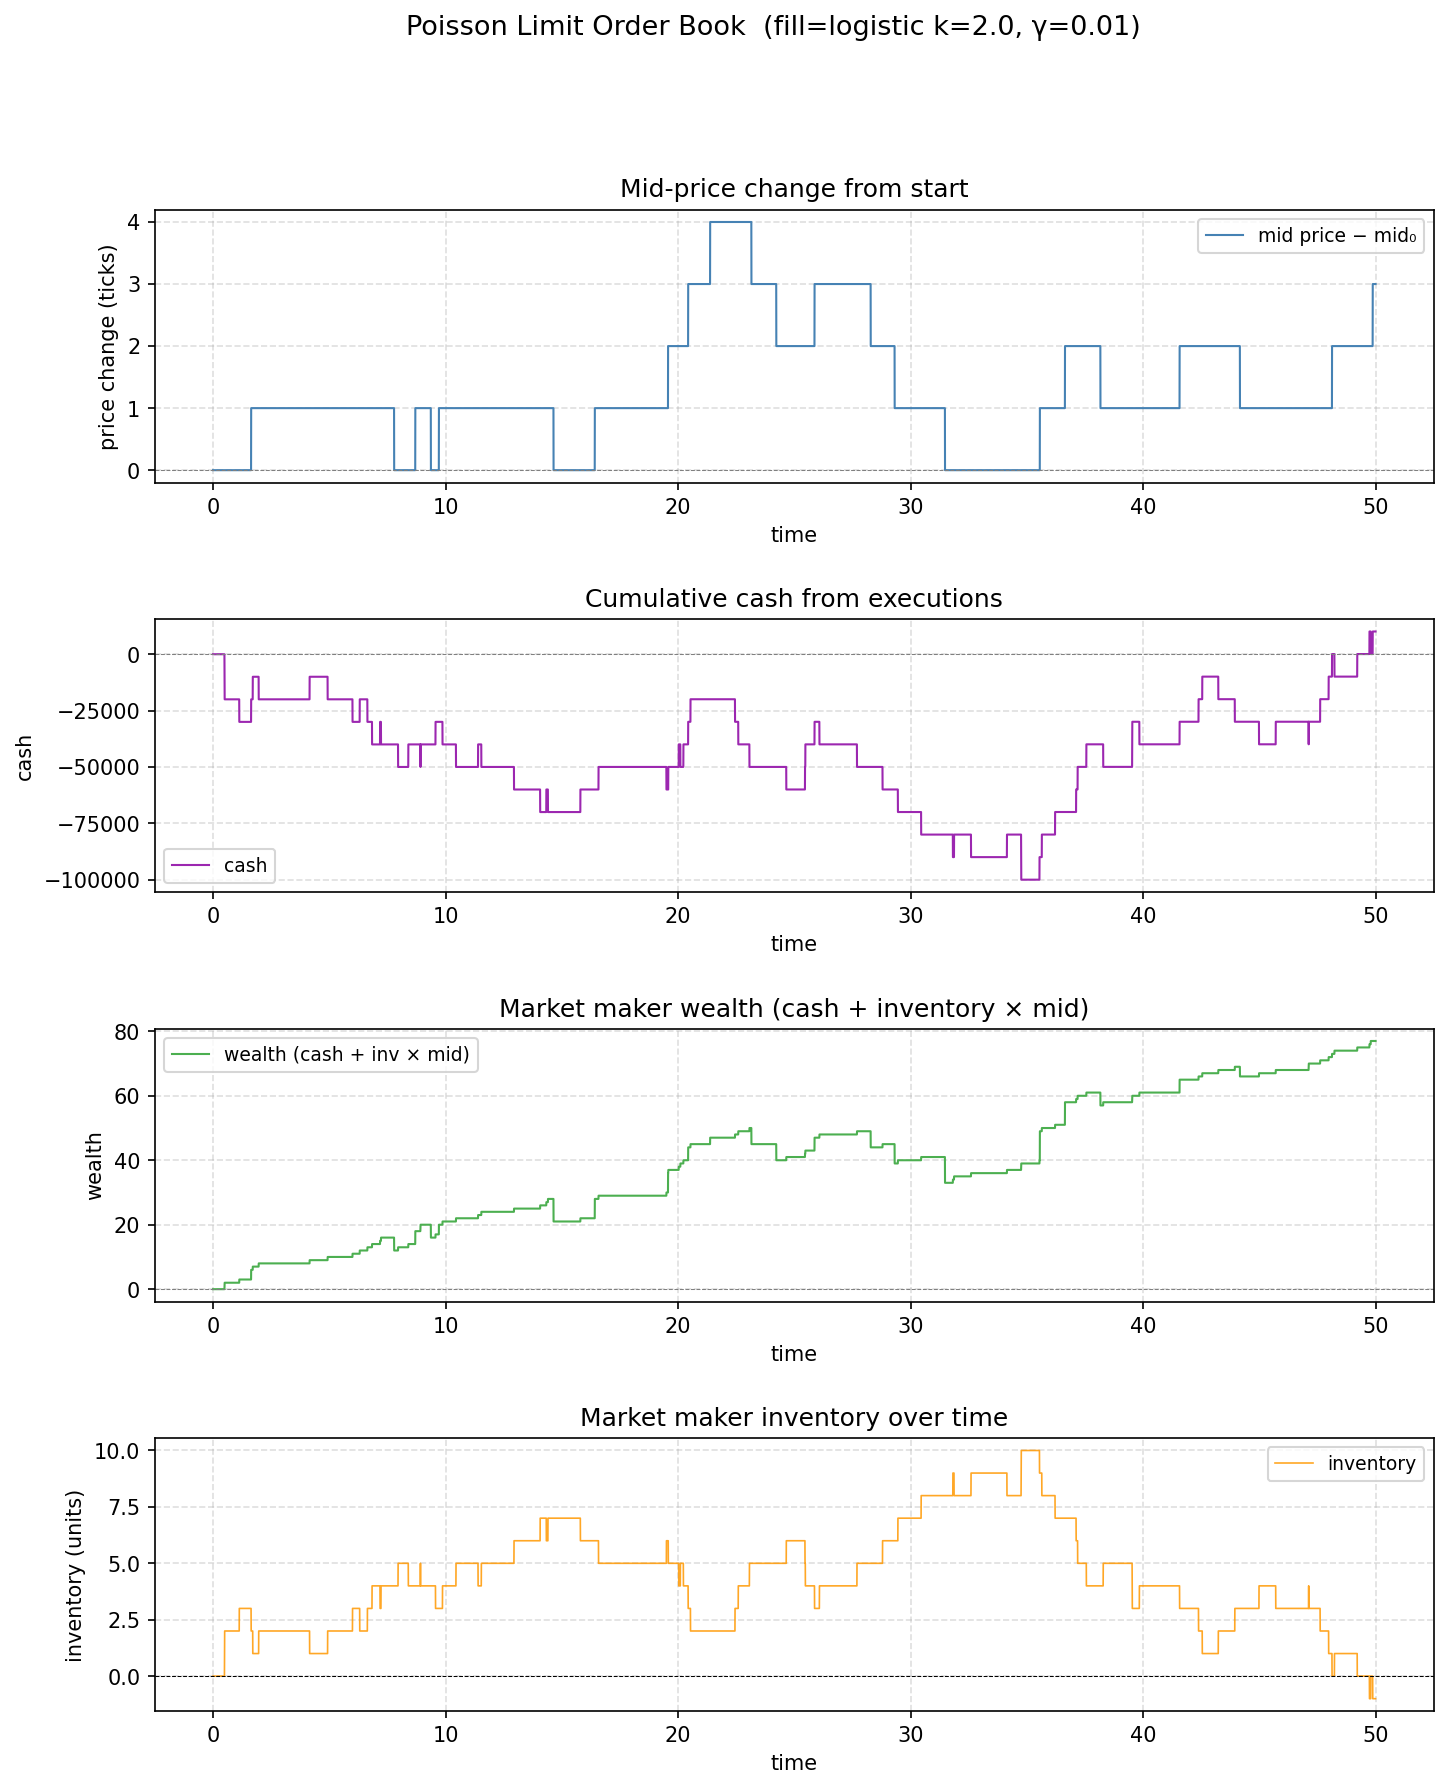
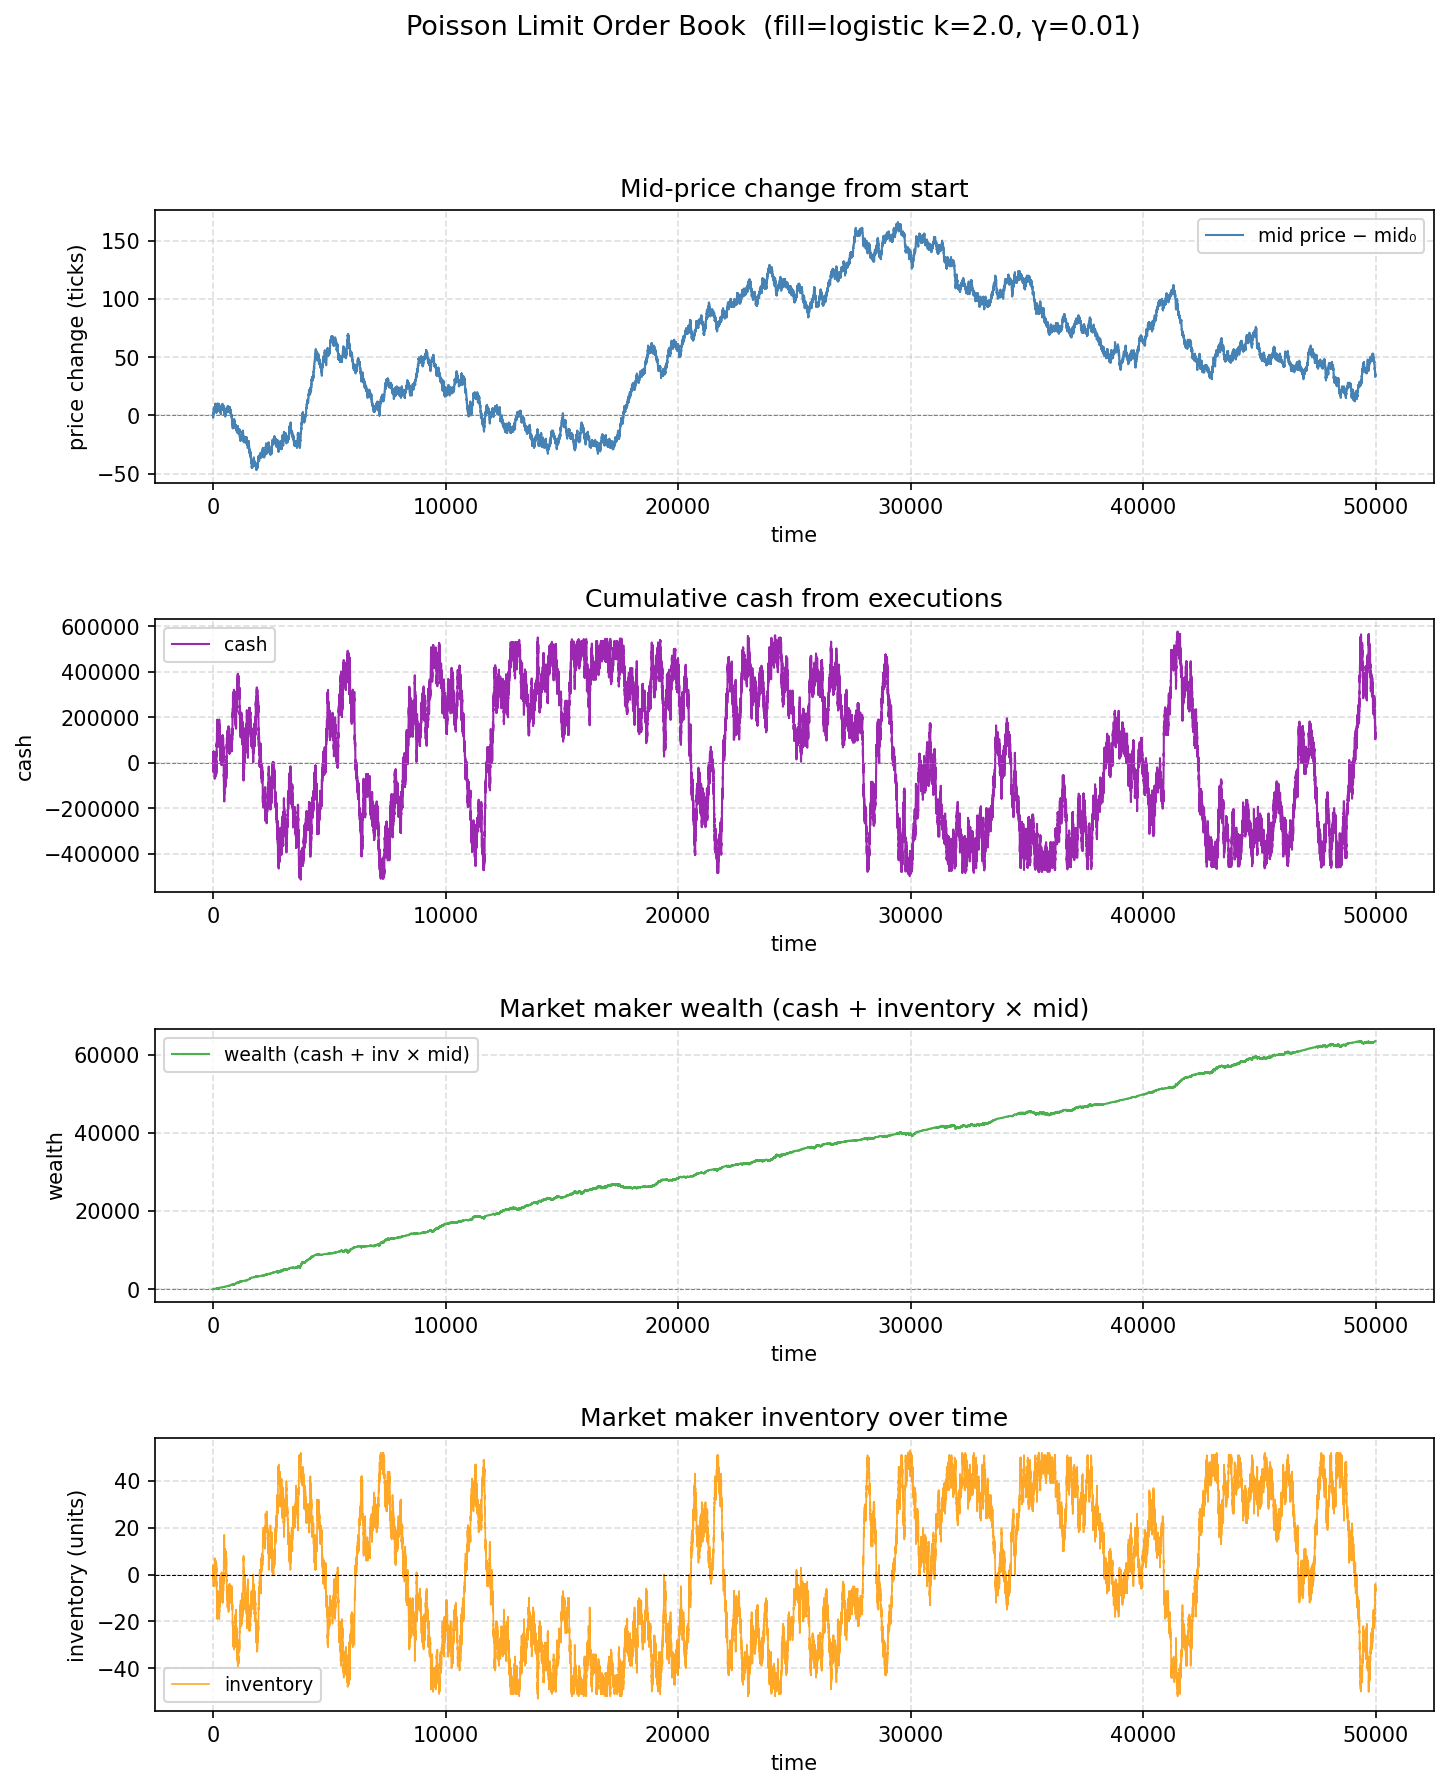
refactored order book for clarity config class - starting of singleton config class

diff --git a/lob/book.py b/lob/book.py
@@ -35,9 +35,9 @@ class OrderBook:
         tick_size: int = 1,
         default_depth: int = 10,
     ) -> None:
-        assert ask_price - bid_price == 2 * tick_size, (
-            "Initial spread must equal 2 * tick_size"
-        )
+        if ask_price - bid_price != 2 * tick_size:
+            raise ValueError("Initial spread must equal 2 * tick_size")
+
         self.bid_price = bid_price
         self.ask_price = ask_price
         self.bid_size = bid_size
@@ -45,69 +45,55 @@ class OrderBook:
         self.tick_size = tick_size
         self.default_depth = default_depth
 
-    # ------------------------------------------------------------------
-    # Read-only properties
-    # ------------------------------------------------------------------
+        self._recompute_derived()
 
-    @property
-    def mid_price(self) -> float:
-        return (self.bid_price + self.ask_price) / 2.0
+    def _recompute_derived(self) -> None:
+        self.mid_price = (self.bid_price + self.ask_price) * 0.5
+        self.spread = self.ask_price - self.bid_price
 
-    @property
-    def spread(self) -> int:
-        return self.ask_price - self.bid_price
+    def _shift_up(self) -> None:
+        self.bid_price += self.tick_size
+        self.ask_price += self.tick_size
+        self._recompute_derived()
 
-    # ------------------------------------------------------------------
-    # Six events
-    # ------------------------------------------------------------------
+    def _shift_down(self) -> None:
+        self.bid_price -= self.tick_size
+        self.ask_price -= self.tick_size
+        self._recompute_derived()
 
-    def buy_market_order(self) -> None:
-        """Consume one unit from the ask queue (buyer lifts the offer)."""
+    def _consume_ask(self) -> None:
         if self.ask_size <= 0:
             return
         self.ask_size -= 1
         if self.ask_size == 0:
-            self.ask_price += self.tick_size
-            self.bid_price += self.tick_size
+            self._shift_up()
             self.ask_size = self.default_depth
 
-    def sell_market_order(self) -> None:
-        """Consume one unit from the bid queue (seller hits the bid)."""
+    def _consume_bid(self) -> None:
         if self.bid_size <= 0:
             return
         self.bid_size -= 1
         if self.bid_size == 0:
-            self.ask_price -= self.tick_size
-            self.bid_price -= self.tick_size
+            self._shift_down()
             self.bid_size = self.default_depth
 
+    def buy_market_order(self) -> None:
+        self._consume_ask()
+
+    def sell_market_order(self) -> None:
+        self._consume_bid()
+
+    def cancel_ask(self) -> None:
+        self._consume_ask()
+
+    def cancel_bid(self) -> None:
+        self._consume_bid()
+
     def buy_limit_order(self) -> None:
-        """Add one unit to the bid queue."""
         self.bid_size += 1
 
     def sell_limit_order(self) -> None:
-        """Add one unit to the ask queue."""
         self.ask_size += 1
-
-    def cancel_bid(self) -> None:
-        """Remove one unit from the bid queue."""
-        if self.bid_size <= 0:
-            return
-        self.bid_size -= 1
-        if self.bid_size == 0:
-            self.ask_price -= self.tick_size
-            self.bid_price -= self.tick_size
-            self.bid_size = self.default_depth
-
-    def cancel_ask(self) -> None:
-        """Remove one unit from the ask queue."""
-        if self.ask_size <= 0:
-            return
-        self.ask_size -= 1
-        if self.ask_size == 0:
-            self.ask_price += self.tick_size
-            self.bid_price += self.tick_size
-            self.ask_size = self.default_depth
 
     def __repr__(self) -> str:
         return (

diff --git a/main.py b/main.py
@@ -6,46 +6,49 @@ Run:
 """
 
 import random
-import numpy as np
-import matplotlib.pyplot as plt
 
+import matplotlib.pyplot as plt
+import numpy as np
+
+from config import Config
 from lob import simulate
-from config import LAMBDAS, DT, N_STEPS, P_FILL, GAMMA, LOB_INIT, FILL_MODE, K_FILL
 from plotting import plot_single_run
 
 SEED = random.randint(0, 2**31 - 1)
-
-print(f"Running Poisson LOB simulation  (seed={SEED}, gamma={GAMMA}, fill_mode={FILL_MODE})...")
+print(SEED)
+print(
+    f"Running Poisson LOB simulation  (seed={SEED}, gamma={Config.GAMMA}, fill_mode={Config.FILL_MODE})..."
+)
 result = simulate(
-    lambdas=LAMBDAS,
-    dt=DT,
-    n_steps=N_STEPS,
-    p_fill=P_FILL,
-    gamma=GAMMA,
-    fill_mode=FILL_MODE,
-    k=K_FILL,
+    lambdas=Config.LAMBDAS,
+    dt=Config.DT,
+    n_steps=Config.N_STEPS,
+    p_fill=Config.P_FILL,
+    gamma=Config.GAMMA,
+    fill_mode=Config.FILL_MODE,
+    k=Config.K_FILL,
     seed=SEED,
-    **LOB_INIT,
+    **Config.LOB_INIT,
 )
 
 # ------------------------------------------------------------------
 # Summary + diagnostics
 # ------------------------------------------------------------------
 
-times       = np.array([s.time      for s in result.snapshots])
-mids        = np.array([s.mid_price for s in result.snapshots])
+times = np.array([s.time for s in result.snapshots])
+mids = np.array([s.mid_price for s in result.snapshots])
 inventories = np.array([s.inventory for s in result.snapshots])
-cashes      = np.array([s.cash      for s in result.snapshots])
-wealths     = np.array([s.wealth    for s in result.snapshots])
+cashes = np.array([s.cash for s in result.snapshots])
+wealths = np.array([s.wealth for s in result.snapshots])
 
 price_changes = int(np.sum(np.diff(mids) != 0))
-print(f"  Steps simulated : {N_STEPS:,}")
+print(f"  Steps simulated : {Config.N_STEPS:,}")
 print(f"  Total time      : {times[-1]:.1f}")
 print(f"  Mid start / end : {mids[0]:.1f} / {mids[-1]:.1f}")
 print(f"  Mid std         : {mids.std():.3f}")
 print(f"  Price moves     : {price_changes}")
 print(f"  Spread          : always {result.snapshots[0].spread} (constant)")
-print(f"  p_fill          : {P_FILL}")
+print(f"  p_fill          : {Config.P_FILL}")
 print(f"\nMM summary:")
 print(f"  Final inventory : {inventories[-1]}")
 print(f"  Min  inventory  : {inventories.min()}")
@@ -55,15 +58,23 @@ print(f"  Final wealth    : {wealths[-1]:.1f}")
 print(f"  Bid fills       : {result.bid_fills}")
 print(f"  Ask fills       : {result.ask_fills}")
 print(f"  Fill imbalance  : {result.bid_fills - result.ask_fills}")
-print(f"  Inventory/fills : {inventories[-1]} / ({result.bid_fills + result.ask_fills})")
+print(
+    f"  Inventory/fills : {inventories[-1]} / ({result.bid_fills + result.ask_fills})"
+)
 
-result.print_diagnostics(LAMBDAS, DT)
+result.print_diagnostics(Config.LAMBDAS, Config.DT)
 
 # ------------------------------------------------------------------
 # Plot
 # ------------------------------------------------------------------
 
-fig = plot_single_run(result, p_fill=P_FILL, gamma=GAMMA, fill_mode=FILL_MODE, k=K_FILL)
+fig = plot_single_run(
+    result,
+    p_fill=Config.P_FILL,
+    gamma=Config.GAMMA,
+    fill_mode=Config.FILL_MODE,
+    k=Config.K_FILL,
+)
 fig.savefig("lob_simulation.png", dpi=150, bbox_inches="tight")
 print("\nFigure saved -> lob_simulation.png")
 plt.show()

diff --git a/config.py b/config.py
@@ -2,36 +2,46 @@
 Shared simulation parameters.
 """
 
-LAMBDAS = {
-    "buy_market_order":  1.5,
-    "sell_market_order": 1.5,
-    "buy_limit_order":   2.0,
-    "sell_limit_order":  2.0,
-    "cancel_bid":        1.8,
-    "cancel_ask":        1.8,
-}
+from enum import Enum
 
-DT        = 0.005   # time step  (Λ * dt = 10.6 * 0.005 = 0.053 << 1)
-N_STEPS   = 10_000
-P_FILL    = 0.5     # constant fill probability (used when FILL_MODE="constant")
-GAMMA     = 0.01    # default gamma for single-run
-FILL_MODE = "logistic"   # "constant" or "logistic"
-K_FILL    = 2.0          # logistic sensitivity
 
-LOB_INIT = dict(
-    bid_price=9999,
-    ask_price=10001,
-    bid_size=5,
-    ask_size=5,
-    tick_size=1,
-    default_depth=5,
-)
+class Gamma(Enum):
+    NO_CONTROL = 0.00
+    LIGHT_CONTROL = 0.01
+    MODERATE_CONTROL = 0.05
+    STRONG_CONTROL = 0.10
+    VERY_CONSERVATIVE = 0.25
+    EXTREME_CONSERVATIVE = 0.50
 
-GAMMA_CONFIGS = [
-    (0.00, "No Control"),
-    (0.01, "Light Control"),
-    (0.05, "Moderate Control"),
-    (0.10, "Strong Control"),
-    (0.25, "Very Conservative"),
-    (0.50, "Extreme Aversion"),
-]
+
+class Config:
+    LAMBDAS = {
+        "buy_market_order": 1.5,
+        "sell_market_order": 1.5,
+        "buy_limit_order": 2.0,
+        "sell_limit_order": 2.0,
+        "cancel_bid": 1.8,
+        "cancel_ask": 1.8,
+    }
+    DT = 0.005  # time step  (Λ * dt = 10.6 * 0.005 = 0.053 << 1)
+    N_STEPS = 10_000_000
+    P_FILL = 0.5  # constant fill probability (used when FILL_MODE="constant")
+    GAMMA = 0.01  # default gamma for single-run
+    FILL_MODE = "logistic"  # "constant" or "logistic"
+    K_FILL = 2.0  # logistic sensitivity
+    LOB_INIT = dict(
+        bid_price=9999,
+        ask_price=10001,
+        bid_size=5,
+        ask_size=5,
+        tick_size=1,
+        default_depth=5,
+    )
+    GAMMA_CONFIGS = [
+        (0.00, "No Control"),
+        (0.01, "Light Control"),
+        (0.05, "Moderate Control"),
+        (0.10, "Strong Control"),
+        (0.25, "Very Conservative"),
+        (0.50, "Extreme Aversion"),
+    ]
